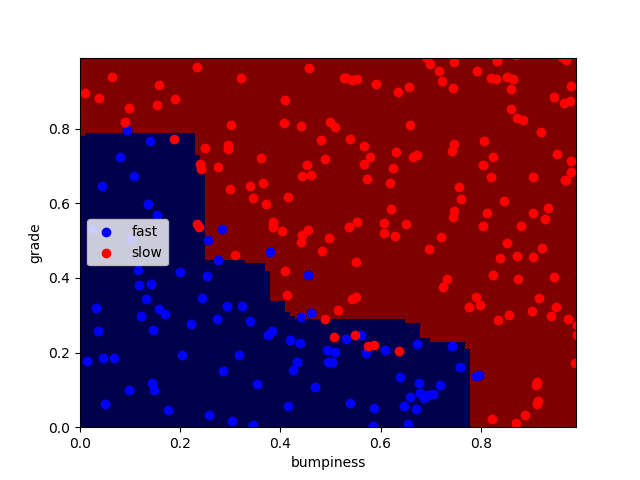
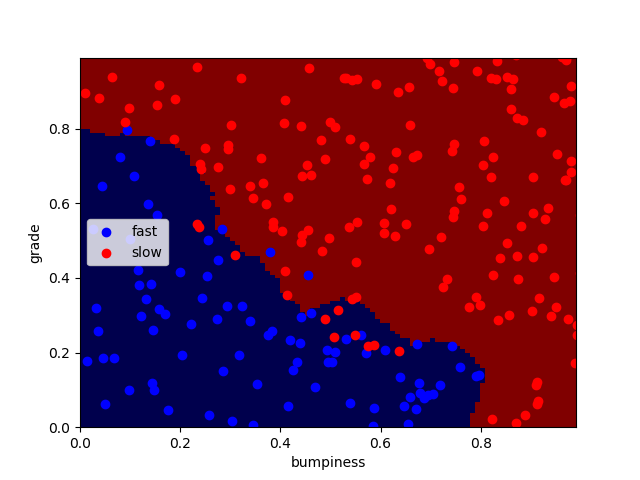
upp to outliers mini project

diff --git a/regression/finance_regression.py b/regression/finance_regression.py
@@ -18,19 +18,19 @@ import sys
 import pickle
 sys.path.append("../tools/")
 from feature_format import featureFormat, targetFeatureSplit
-dictionary = pickle.load( open("../final_project/final_project_dataset_modified.pkl", "r") )
+dictionary = pickle.load(open("../final_project/final_project_dataset_modified.pkl", "rb") )
 
 ### list the features you want to look at--first item in the 
 ### list will be the "target" feature
 features_list = ["bonus", "salary"]
-data = featureFormat( dictionary, features_list, remove_any_zeroes=True)
+data = featureFormat( dictionary, features_list, remove_any_zeroes=True, sort_keys = '../tools/python2_lesson06_keys.pkl')
 target, features = targetFeatureSplit( data )
 
 ### training-testing split needed in regression, just like classification
-from sklearn.cross_validation import train_test_split
+from sklearn.model_selection import train_test_split
 feature_train, feature_test, target_train, target_test = train_test_split(features, target, test_size=0.5, random_state=42)
 train_color = "b"
-test_color = "b"
+test_color = "r"
 
 
 
@@ -38,8 +38,12 @@ test_color = "b"
 ### Please name it reg, so that the plotting code below picks it up and 
 ### plots it correctly. Don't forget to change the test_color from "b" to "r"
 ### to differentiate training points from test points.
+from sklearn.linear_model import LinearRegression
 
-
+reg = LinearRegression()
+reg.fit(feature_train,target_train)
+print(reg.score(feature_test,target_test))
+print(reg.coef_, '  ',reg.intercept_)
 
 
 
@@ -65,6 +69,9 @@ try:
     plt.plot( feature_test, reg.predict(feature_test) )
 except NameError:
     pass
+reg.fit(feature_test, target_test)
+print(reg.coef_ , reg.intercept_)
+plt.plot(feature_train, reg.predict(feature_train), color="b")
 plt.xlabel(features_list[1])
 plt.ylabel(features_list[0])
 plt.legend()

diff --git a/outliers/outlier_removal_regression.py b/outliers/outlier_removal_regression.py
@@ -20,11 +20,17 @@ net_worths = pickle.load( open("practice_outliers_net_worths.pkl", "rb") )
 ### and n_columns is the number of features
 ages       = numpy.reshape( numpy.array(ages), (len(ages), 1))
 net_worths = numpy.reshape( numpy.array(net_worths), (len(net_worths), 1))
-from sklearn.cross_validation import train_test_split
+from sklearn.model_selection import train_test_split
 ages_train, ages_test, net_worths_train, net_worths_test = train_test_split(ages, net_worths, test_size=0.1, random_state=42)
 
 ### fill in a regression here!  Name the regression object reg so that
 ### the plotting code below works, and you can see what your regression looks like
+from sklearn.linear_model import LinearRegression
+
+reg = LinearRegression()
+reg.fit(ages_train,net_worths_train)
+print(reg.score(ages_test,net_worths_test))
+print(reg.coef_)
 
 
 
@@ -68,6 +74,8 @@ if len(cleaned_data) > 0:
     ### refit your cleaned data!
     try:
         reg.fit(ages, net_worths)
+        print(reg.coef_)
+        print(reg.score(ages_test,net_worths_test))
         plt.plot(ages, reg.predict(ages), color="blue")
     except NameError:
         print("you don't seem to have regression imported/created,")

diff --git a/datasets_questions/explore_enron_data.py b/datasets_questions/explore_enron_data.py
@@ -19,4 +19,36 @@ import pickle
 
 enron_data = pickle.load(open("../final_project/final_project_dataset.pkl", "rb"))
 
+ans = list(enron_data.values())
+temp = 0
+for i in ans:
+    if i['poi']:
+       temp += 1
+
+temp2 = 0
+for j in ans:
+    if j['salary'] != 'NaN':
+        temp2 += 1
+
+temp3 = 0
+for j in ans:
+    if j['email_address'] != 'NaN':
+        temp3 += 1
+
+temp4 = 0
+for j in ans:
+    if j['total_payments'] == 'NaN' and j['poi']:
+        temp4 += 1
+
+print(temp,'  ',temp2,'  ',temp3, ' ', temp4/len(enron_data))
+
+print(enron_data['COLWELL WESLEY']['from_this_person_to_poi'])
+
+print(enron_data['SKILLING JEFFREY K']['total_payments'])
+print(enron_data['FASTOW ANDREW S']['total_payments'])
+print(enron_data['LAY KENNETH L']['total_payments'])
+
+print(enron_data.values())
+
+
 

diff --git a/choose_your_own/your_algorithm.py b/choose_your_own/your_algorithm.py
@@ -3,7 +3,7 @@
 import matplotlib.pyplot as plt
 from prep_terrain_data import makeTerrainData
 from class_vis import prettyPicture
-from sklearn.ensemble import RandomForestClassifier
+from sklearn.neighbors import KNeighborsClassifier
 from sklearn.metrics import accuracy_score
 
 features_train, labels_train, features_test, labels_test = makeTerrainData()
@@ -33,14 +33,10 @@ plt.show()
 ### your code here!  name your classifier object clf if you want the 
 ### visualization code (prettyPicture) to show you the decision boundary
 
-clf = RandomForestClassifier(n_estimators=300,min_samples_split=20,max_depth=2)
+clf = KNeighborsClassifier(n_neighbors=18)
 clf.fit(features_train,labels_train)
 pred = clf.predict(features_test)
 print(accuracy_score(pred,labels_test))
-
-
-
-
 
 
 try:

diff --git a/outliers/outlier_cleaner.py b/outliers/outlier_cleaner.py
@@ -1,6 +1,6 @@
 #!/usr/bin/python3
 
-
+from numpy import *
 def outlierCleaner(predictions, ages, net_worths):
     """
         clean away the 10% of points that have the largest
@@ -12,9 +12,10 @@ def outlierCleaner(predictions, ages, net_worths):
     """
     
     cleaned_data = []
-
-    ### your code goes here
-
-    
+    for i in range(len(predictions)):
+        error = (net_worths[i]- predictions[i]) ** 2
+        cleaned_data.append((ages[i],net_worths[i],error))
+    cleaned_data = sorted(cleaned_data, key = lambda x: x[2])
+    cleaned_data = cleaned_data[0:81]
     return cleaned_data
 

diff --git a/outliers/enron_outliers.py b/outliers/enron_outliers.py
@@ -9,9 +9,19 @@ from feature_format import featureFormat, targetFeatureSplit
 
 ### read in data dictionary, convert to numpy array
 data_dict = pickle.load( open("../final_project/final_project_dataset.pkl", "rb") )
+data_dict.pop('TOTAL',0)
 features = ["salary", "bonus"]
 data = featureFormat(data_dict, features)
 
+
+for point in data:
+    salary = point[0]
+    bonus = point[1]
+    matplotlib.pyplot.scatter( salary, bonus )
+
+matplotlib.pyplot.xlabel("salary")
+matplotlib.pyplot.ylabel("bonus")
+matplotlib.pyplot.show()
 
 ### your code below
 
